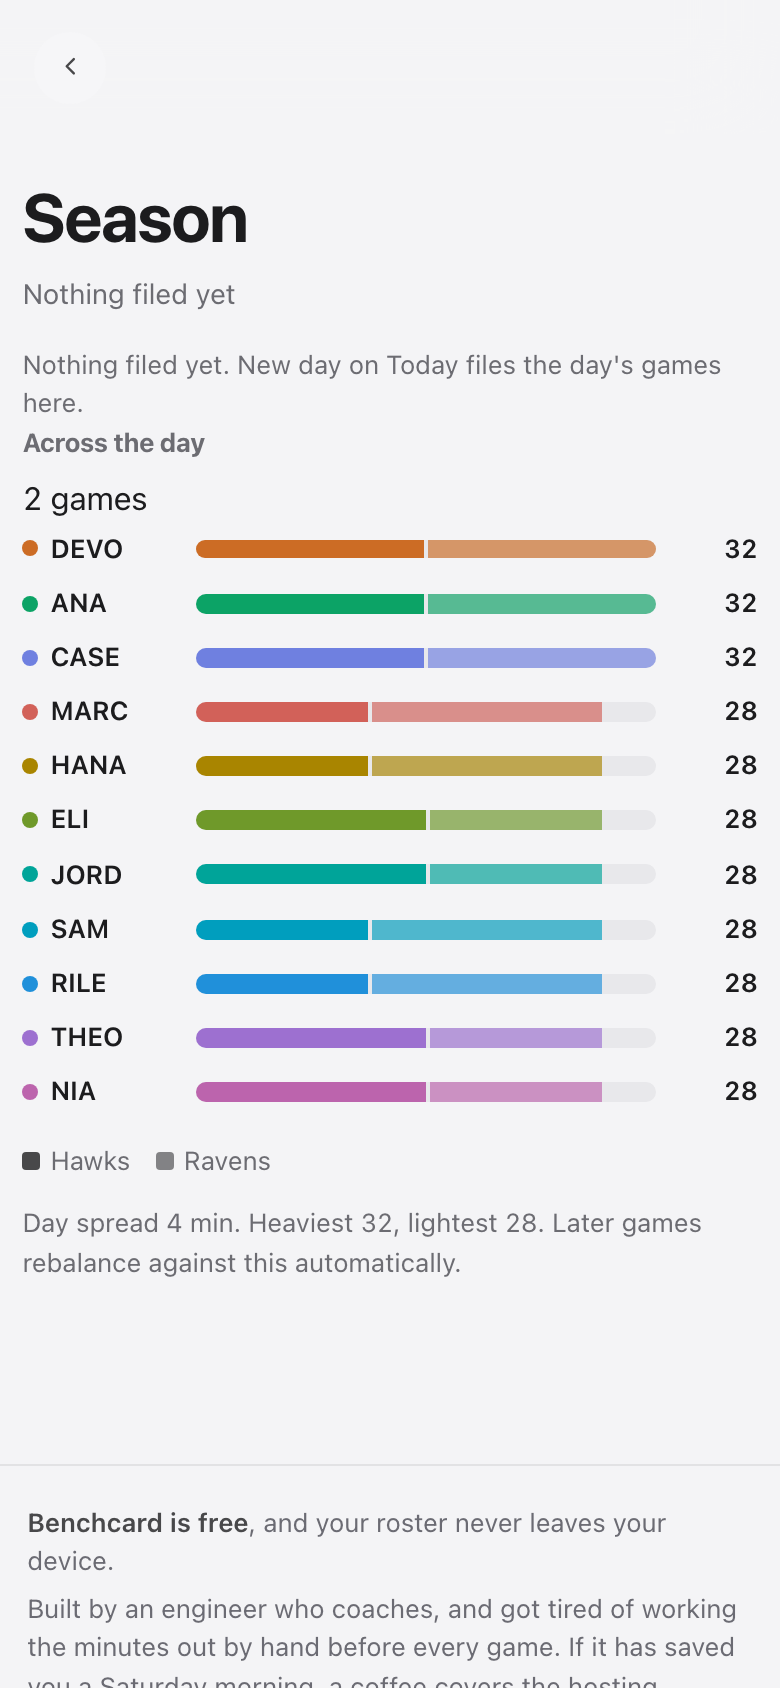
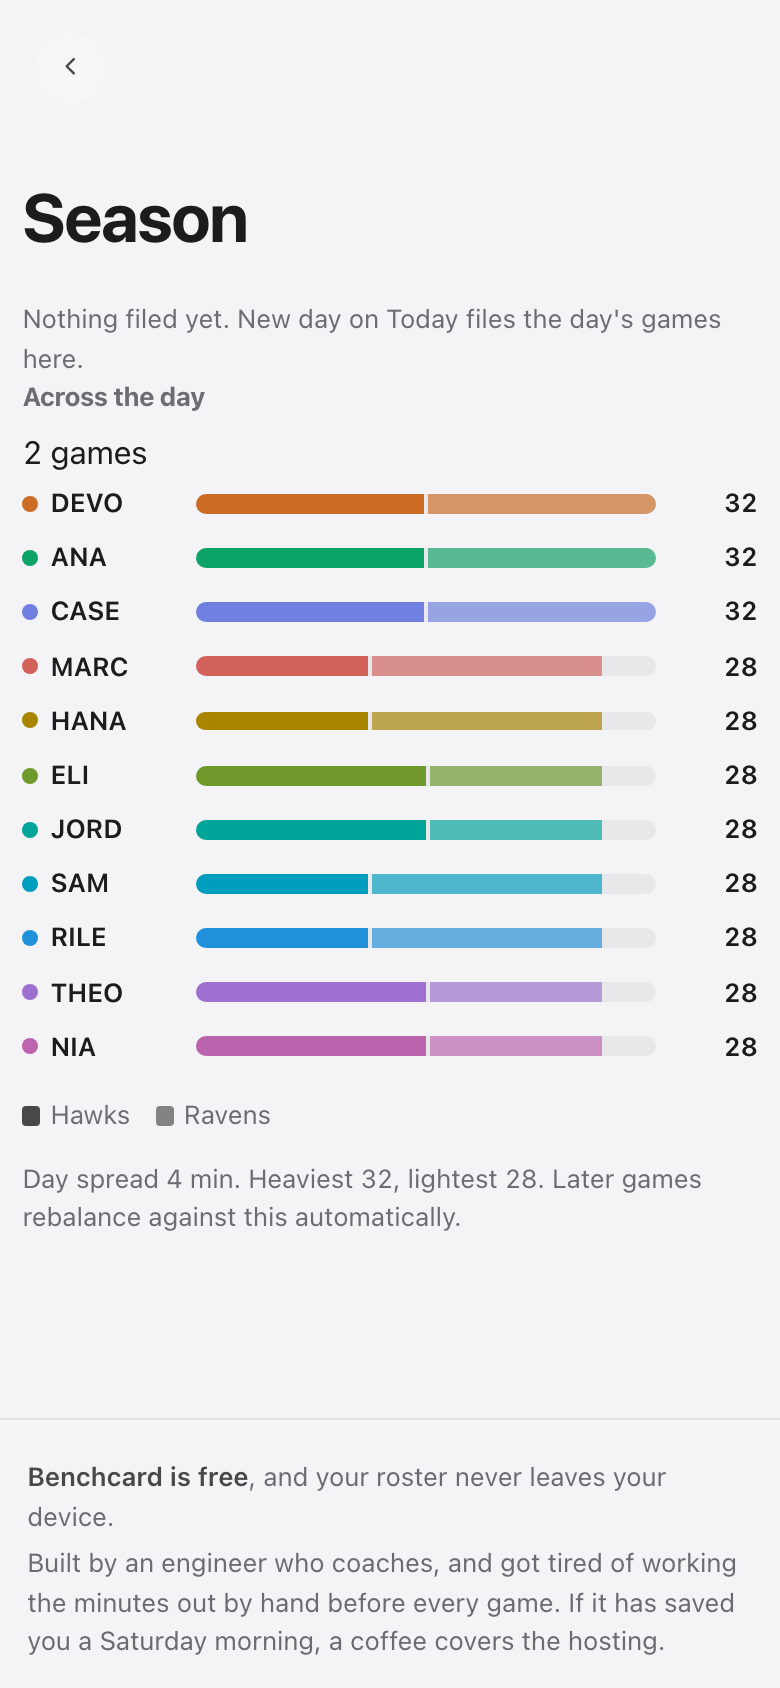
Say "Nothing filed yet" once on the empty Season, not twice
The look check before merging caught the count line under the title reading
"Nothing filed yet" directly above a paragraph opening with those same four
words. Two identical sentences stacked read as a repaint that ran once too
often, not as a screen that knows it is empty -- and it is the first thing a
coach sees on Season before they have filed anything.

With nothing to count the line now goes away entirely (emptied AND hidden) and
the paragraph carries the whole message, which keeps the ticket's pinned
wording intact. Both directions are set in one place, for the same reason
review #1 gives about Export a few lines up: `deleteGame` hands `undoable` its
own refresh that never reaches `applyView`, so anything set in only one
direction here gets stuck the moment that path runs.

The smoke season check counts the phrase in the rendered text of #view-season
rather than asking whether one element is hidden, so it still holds if the
emptiness is said some other way later. Run red first: 2 times, want 1.

npm test 1178 pass 0 fail; npm run smoke no FAIL, payload 1101.0 KB of 1105.4,
40 requests of 41, 1653 DOM nodes of 1769. sw VERSION 304 / SHELL e5616e3891eb.

diff --git a/app/season-view.js b/app/season-view.js
@@ -300,8 +300,20 @@ export function renderSeason() {
   const exportBtn = $('#seasonExport');
   if (exportBtn) exportBtn.hidden = state.view !== 'season' || !games.length;
 
+  /* The count line and the empty note below are one message, not two. This
+     line used to read "Nothing filed yet" with nothing filed, directly above a
+     paragraph opening with those same four words -- which looks like a repaint
+     that ran once too often, not like a screen that knows it is empty. So with
+     nothing to count the line goes away entirely and the paragraph carries the
+     whole message. Both directions are set in one place for the reason review
+     #1 gives about Export just above: a refresh that never reaches `applyView`
+     must still leave the two agreeing. */
+  if (sub) {
+    sub.hidden = !games.length;
+    sub.textContent = games.length ? `${games.length} game${games.length === 1 ? '' : 's'} filed` : '';
+  }
+
   if (!games.length) {
-    if (sub) sub.textContent = 'Nothing filed yet';
     /* No group label and no export: with nothing filed there is nothing to
        group and nothing to save. This line says where a filed day will show
        up, which is the one thing a coach who has never used the feature
@@ -310,7 +322,6 @@ export function renderSeason() {
       "Nothing filed yet. New day on Today files the day's games here."));
     return;
   }
-  if (sub) sub.textContent = `${games.length} game${games.length === 1 ? '' : 's'} filed`;
 
   /* The unit lives in this heading rather than beside every number: a column
      of "70" reads instantly, a column of "70 min" is noise twelve times over. */

diff --git a/app/sw.js b/app/sw.js
@@ -19,7 +19,7 @@
    whenever a precached file changes -- `npm test` names it in the SHELL
    failure and `scripts/check-sw-version.mjs` enforces it across commits --
    but a forgotten bump is now a stale LABEL, not a stale SHELL. */
-const VERSION = '303';
+const VERSION = '304';
 
 /* Fingerprint of every file PRECACHE names, and the half of the cache name
    that actually busts it. `test/sw.test.js` recomputes it from the bytes on
@@ -29,7 +29,7 @@ const VERSION = '303';
    `activate` below deletes the old one. It lives HERE rather than in the test
    so that the edit updating it lands on the line below VERSION. Deleting it
    fails the suite too. */
-const SHELL = '62186d5c592c';
+const SHELL = 'e5616e3891eb';
 
 const CACHE = `benchcard-v${VERSION}-${SHELL}`;
 
